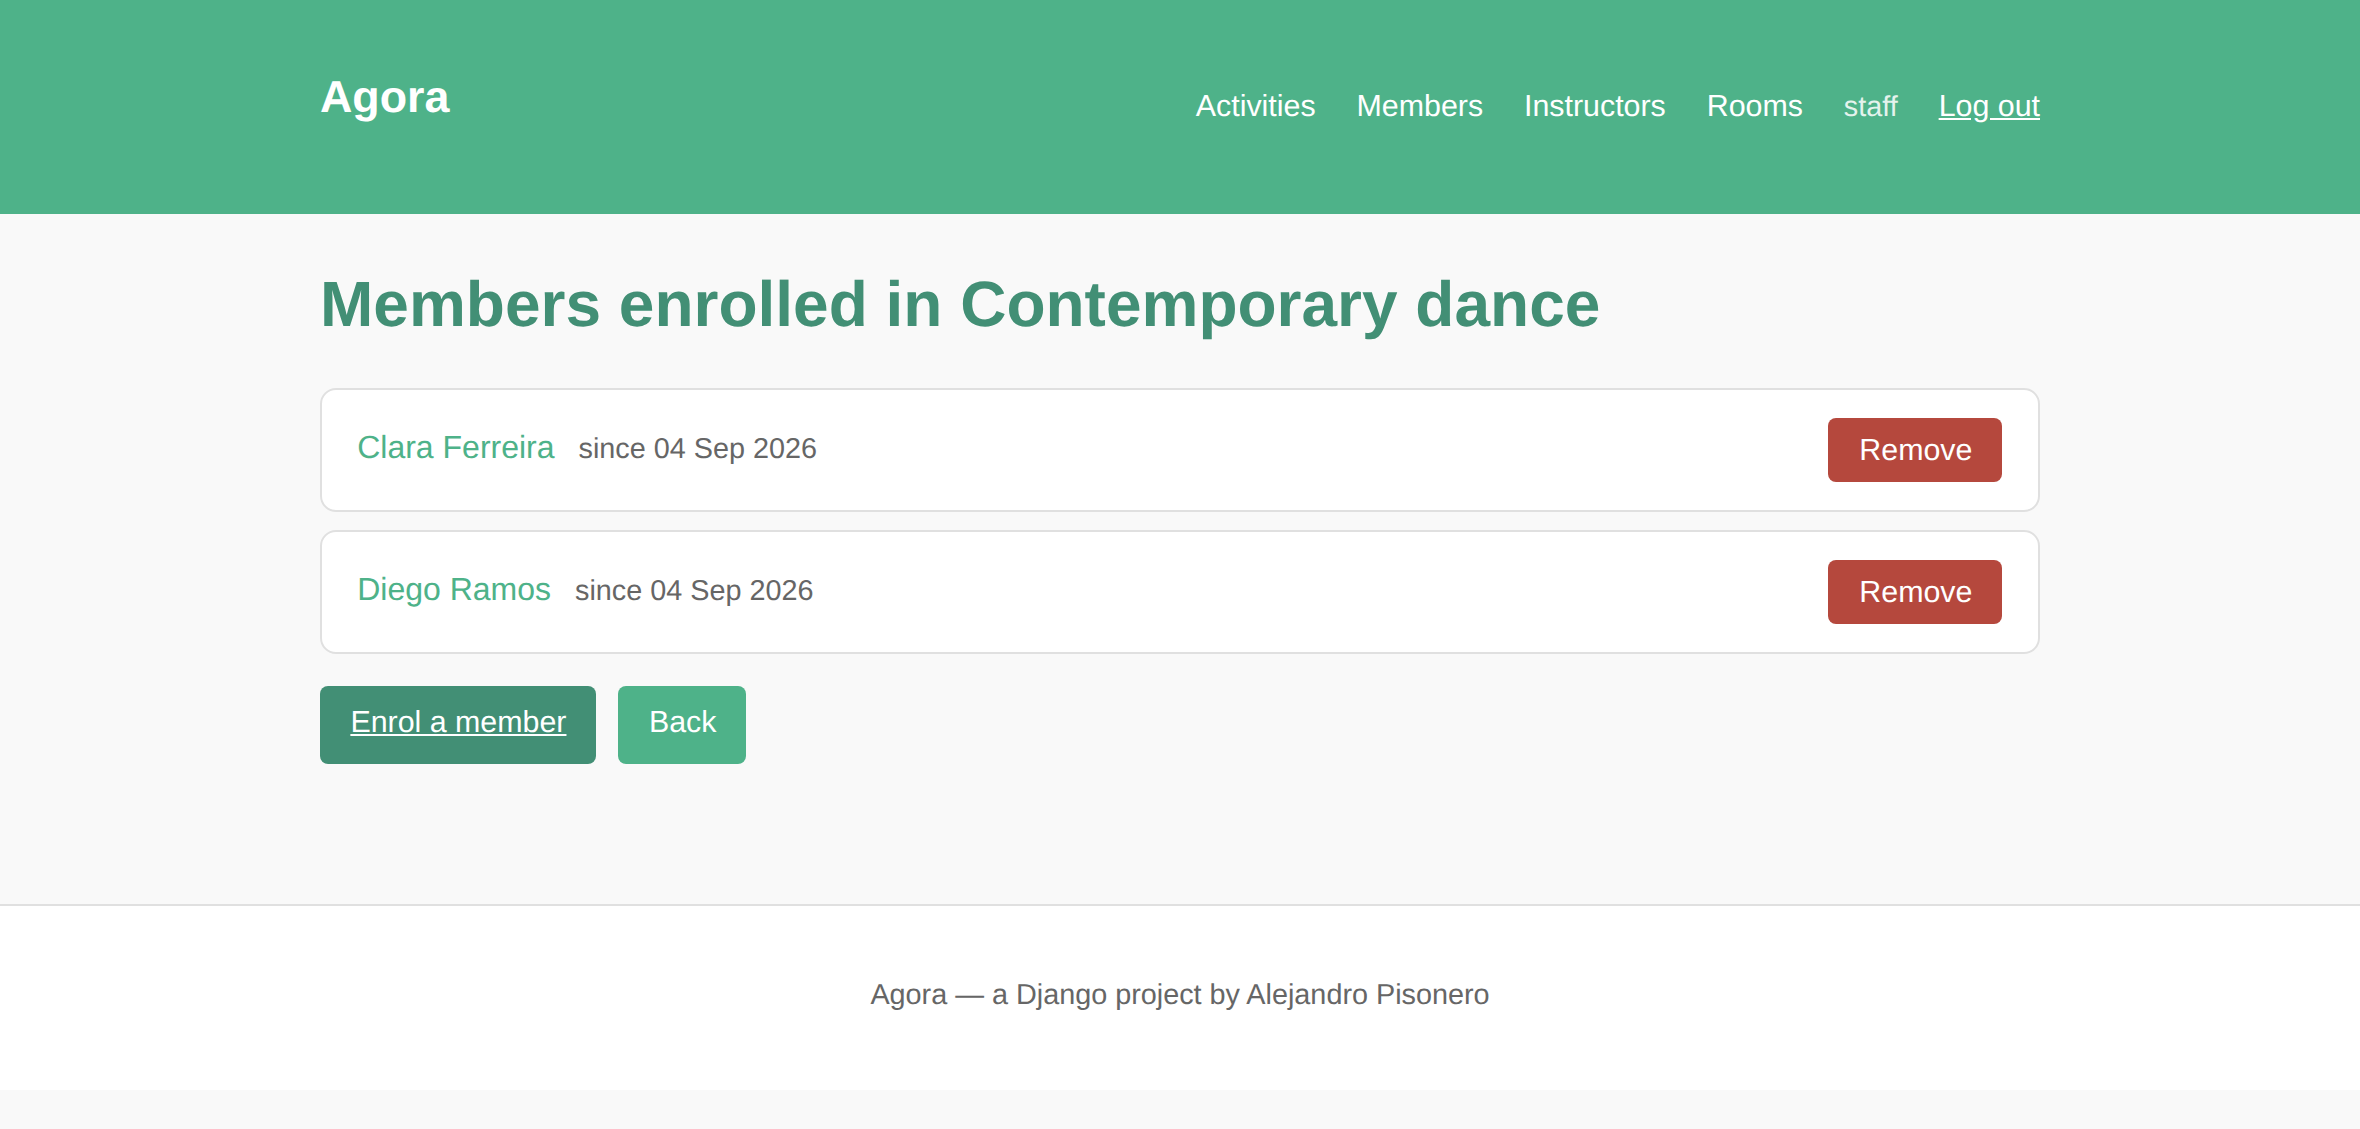
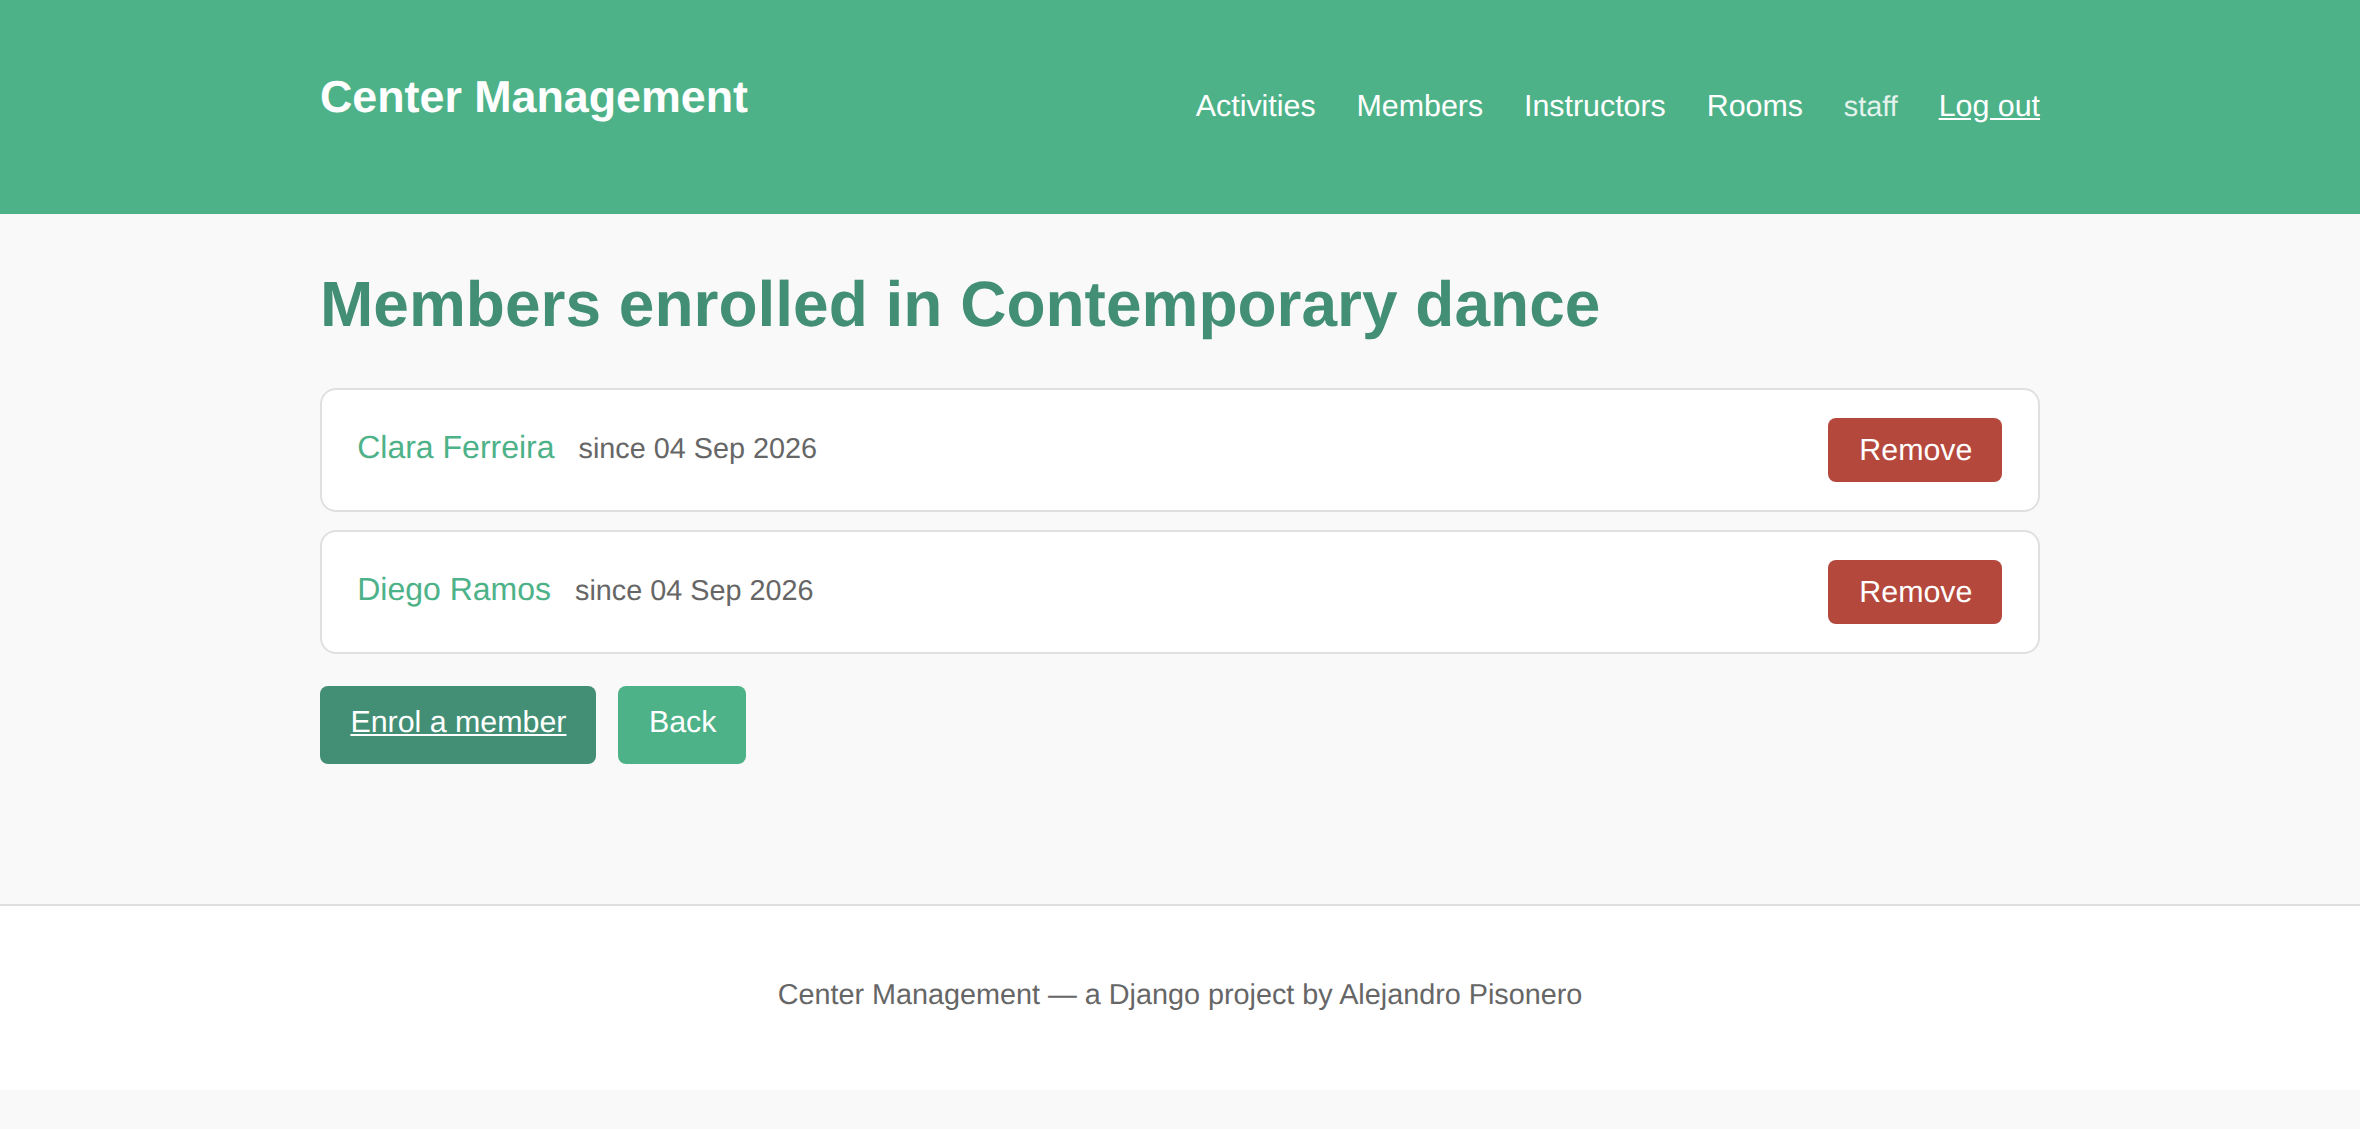
docs: refresh the screenshots and the clone URL after the rename

Changed region(s): [[0.3403, 0.868, 0.6805, 0.899], [0.1237, 0.062, 0.3093, 0.124]]

diff --git a/README.md b/README.md
@@ -92,8 +92,8 @@ level that the same person cannot take two places in one activity.
 ## Getting started
 
 ```bash
-git clone https://github.com/Pisonero22/center-management.git
-cd center-management
+git clone https://github.com/Pisonero22/Center-Management.git
+cd Center-Management
 
 python3 -m venv .venv
 source .venv/bin/activate          # Windows: .venv\Scripts\activate
